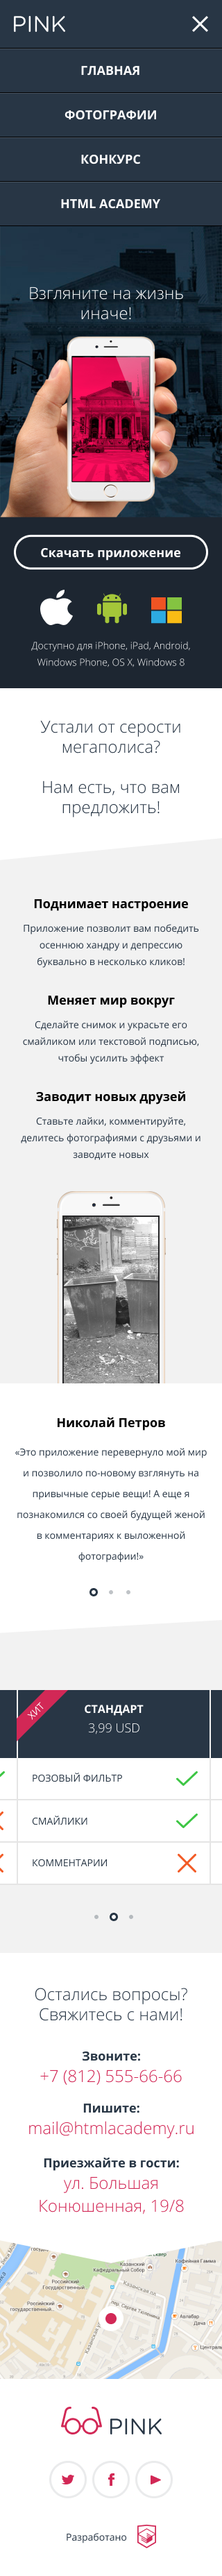
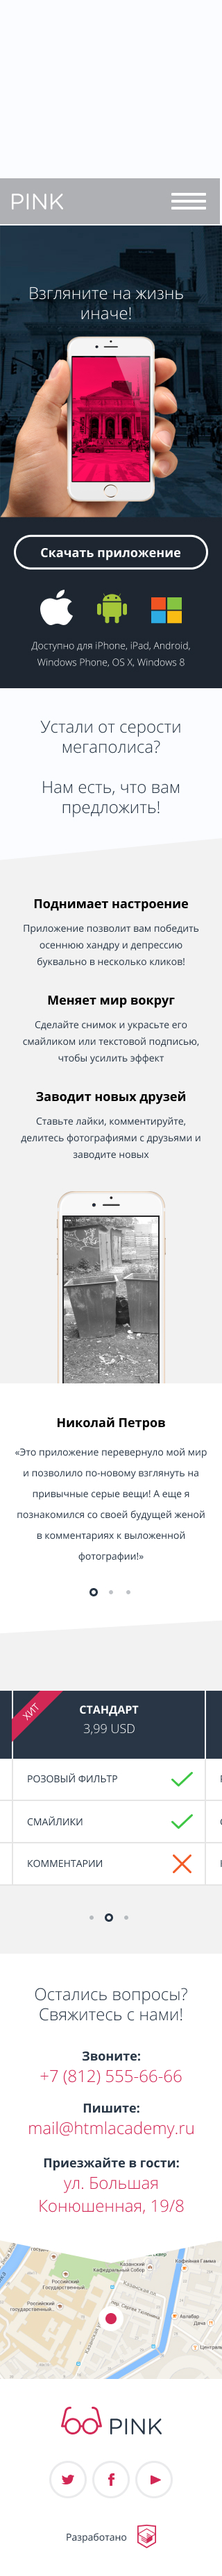
Создание спрайт листа .Верстка svg .

diff --git a/source/index.html b/source/index.html
@@ -51,39 +51,48 @@
       </nav>
     </div>
   </header>
-  <main class="page-main container">
+  <main class="page-main">
     <h1 class="visually-hidden">Приложение Пинк-взгляните на жизнь
       иначе!</h1>
     <section class="download">
-      <h2 class="visually-hidden">Скачать приложение</h2>
-      <h3 class="download__title">Взгляните на жизнь <br>
-        иначе!</h3>
-      <div class="download-popup">
-        <a class="download__link" href="#">Скачать приложение</a>
-        <ul class="download-list">
-          <li class="download-list__item">
-            <a href="#">
-              <img src="#" alt="логотип Apple">
-            </a>
-          </li>
-          <li class="download-list__item">
-            <a href="#">
-              <img src="#" alt="Android">
-            </a>
-          </li>
-          <li class="download-list__item">
-            <a href="#">
-              <img src="#" alt="логотип Microsoft">
-            </a>
-          </li>
-        </ul>
-        <p class="download__description">
-          Доступно для iPhone, iPad, Android,<br>
-          Windows Phone, OS X, Windows 8
-        </p>
+      <div class="container">
+        <h2 class="visually-hidden">Скачать приложение</h2>
+        <h3 class="download__title">Взгляните на жизнь <br>
+          иначе!</h3>
+        <div class="download-popup">
+          <a class="download__link" href="#">Скачать приложение</a>
+          <ul class="download-list">
+            <li class="download-list__item">
+              <a class="download-list__link" href="https://www.apple.com/ru/app-store/" title="iOS">
+                <svg width="43px" height="51px">
+                  <use xlink:href="../img/sprite.svg#logo-apple"> </use>
+                </svg>
+              </a>
+            </li>
+            <li class="download-list__item">
+              <a class="download-list__link" href="https://play.google.com/store" title="iOS">
+                <svg width="43px" height="51px">
+                  <use xlink:href="../img/sprite.svg#logo-android"> </use>
+                </svg>
+              </a>
+            </li>
+            <li class="download-list__item">
+              <a class="download-list__link" href="https://www.microsoft.com/ru-ru/store/apps/windows-phone"
+                title="iOS">
+                <svg width="43px" height="55px">
+                  <use xlink:href="../img/sprite.svg#logo-microsoft"> </use>
+                </svg>
+              </a>
+            </li>
+          </ul>
+          <p class="download__description">
+            Доступно для iPhone, iPad, Android,<br>
+            Windows Phone, OS X, Windows 8
+          </p>
+        </div>
       </div>
     </section>
-    <section class="adventages">
+    <section class="adventages container">
       <h2 class="visually-hidden">Преимущества</h2>
       <div class="adventages-service">
         <p>

diff --git a/source/less/blocks/download.less b/source/less/blocks/download.less
@@ -1,14 +1,35 @@
 .download {
-    padding-top: 158px;
+    padding-top: 128px;
     color: #ffffff;
     background-color:#485461;
+    background-image: url("../img/bg-back-mobile@1x.jpg");
+    background-repeat: no-repeat;
+    background-position: center top;
+    @media (min-resolution: 2dppx){
+        background-image: url("../img/bg-back-mobile@2x.jpg");
+        background-size: 740px auto;
+        }
+    @media (min-width:@tablet-width){
+        background-image: url("../img/bg-back-tablet@1x.jpg");
+         @media (min-resolution:2dppx){
+            background-image: url("../img/bg-back-tablet@2x.jpg");
+            background-size: 1200px auto;
+            }
+    }
+    @media (min-width:@desktop-width){
+        background-image: url("../img/bg-back-desktop@1x.jpg");
+        @media (min-resolution:2dppx){
+            background-image: url("../img/bg-back-desktop@2x.jpg");
+            background-size: 2560px auto;
+            }
+    }
 }
 .download__title {
     font-weight: 300;
     font-size: 24px;
     line-height: 120%;
     text-align: center;
-    margin-bottom: 287px;
+    margin-bottom: 280px;
 }
 .download-popup{
     background-color: #1D2631;
@@ -25,7 +46,7 @@
     border: 3px solid #FFFFFF;
     box-sizing: border-box;
     border-radius: 29px;
-    padding: 20px 35px;
+    padding: 14px 35px;
     margin: 25px 20px 29px 20px;
      &:hover,
      &:focus{
@@ -41,14 +62,18 @@
 .download-list{
     list-style: none;
     display: flex;
+    justify-content: space-between;
     width: 204px;
     flex-wrap: wrap;
-    margin-bottom: 25px;
+    margin: 0px 0px 5px 59px;
+    padding: 0px;
 }
+
 .download__description{
     font-size: 14px;
     line-height: 24px;
     font-weight: 300;
     text-align: center;
-    padding-bottom: 24px;
+    padding: 0px 0px 25px 0px;
+    margin: 0px 0px 0px 0px;
 }

diff --git a/source/less/blocks/page-header.less b/source/less/blocks/page-header.less
@@ -2,7 +2,7 @@
     position: absolute;
     width: 100%;
     z-index: 10;
-    background-color:#283645;
+    background-color:fade(#000000,30%);
     min-height: 69px;
     @media (min-width:@tablet-width){
         min-height:109px;  
